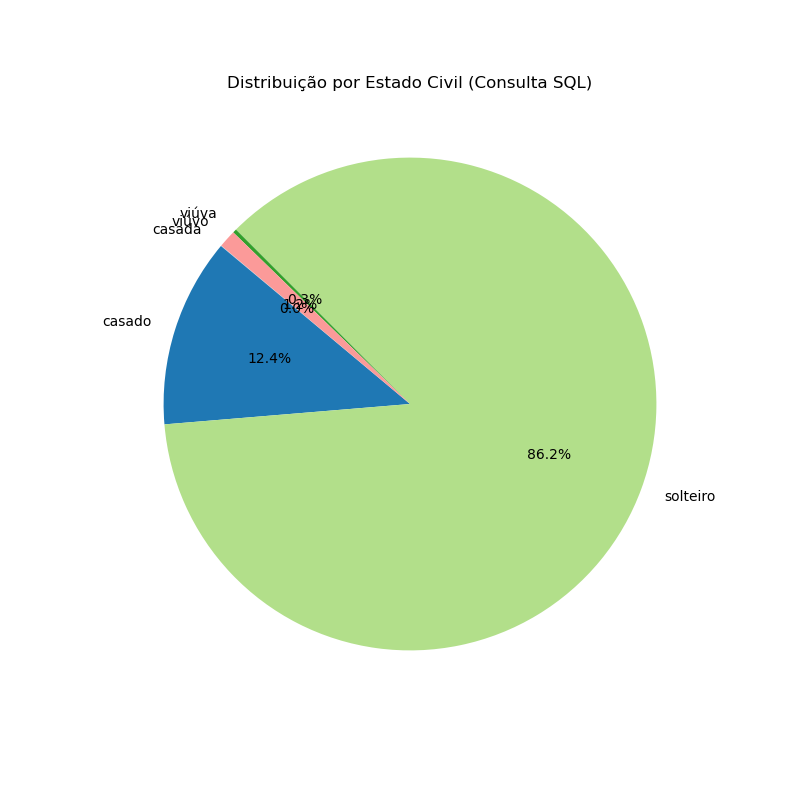
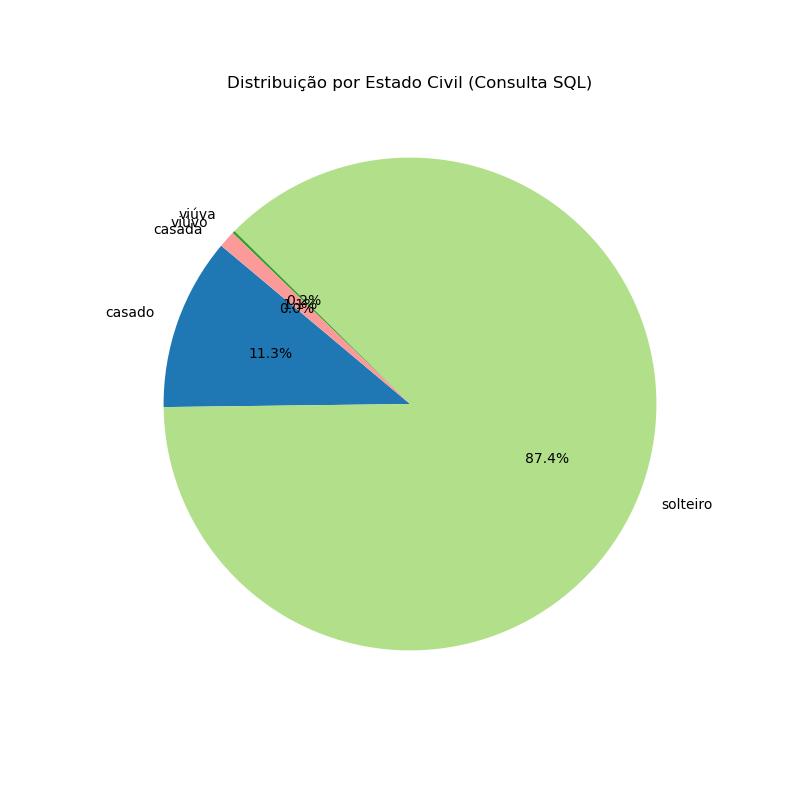
a

diff --git a/7Semestre/ciencia_de_dados/L7/1-2-3-5-9.py b/7Semestre/ciencia_de_dados/L7/1-2-3-5-9.py
@@ -1,0 +1,24 @@
+""" 
+1Explique a importância da visualização de dados como um primeiro passo em qualquer análise, citando exemplos de insights que podem ser obtidos a partir de histogramas ou matrizes de dispersão.
+
+    R: Ao visualizar os dados é possivel analisar relações entre os dados, graus de relações e 
+
+
+2Diferencie uma distribuição uniforme de uma distribuição normal. Em qual situação seria mais provável usar um histograma para identificar uma dessas distribuições?
+
+    R: A distribuição uniforme o eixo y fica proximo desde o menor x até o maior, enquanto a normal tem seu pico no centro e vai decaindo quanto mais proximo das extremidades
+    
+3Dado um dataset com valores ausentes em uma coluna numérica, descreva duas estratégias diferentes para tratar esses dados e os prós e contras de cada uma.
+
+    R: é possivel substituir o numero por 0
+    
+    
+5Explique por que o redimensionamento (scaling) de dados é crucial em algoritmos de aprendizado de máquina que dependem de cálculo de distâncias, como k-NN ou agrupamento (clustering).
+
+    R:
+    
+    
+9Descreva a finalidade do argumento leave=False quando tqdm é utilizado em loops aninhados.
+
+
+"""

diff --git a/7Semestre/ciencia_de_dados/aula10.py b/7Semestre/ciencia_de_dados/aula10.py
@@ -1,0 +1,11 @@
+from tqdm.auto import tqdm
+from concurrent.futures import ThreadPoolExecutor
+import time
+
+def tarefa(x):
+    time.sleep(0.05) # Simula uma tarefa demorada
+    return x*x
+
+with ThreadPoolExecutor() as executor:
+    # Acompanha o progresso da execução de tarefas em paralelo
+    results = list(tqdm(executor.map(tarefa, range(50)), total=50, desc="Processando em paralelo"))
